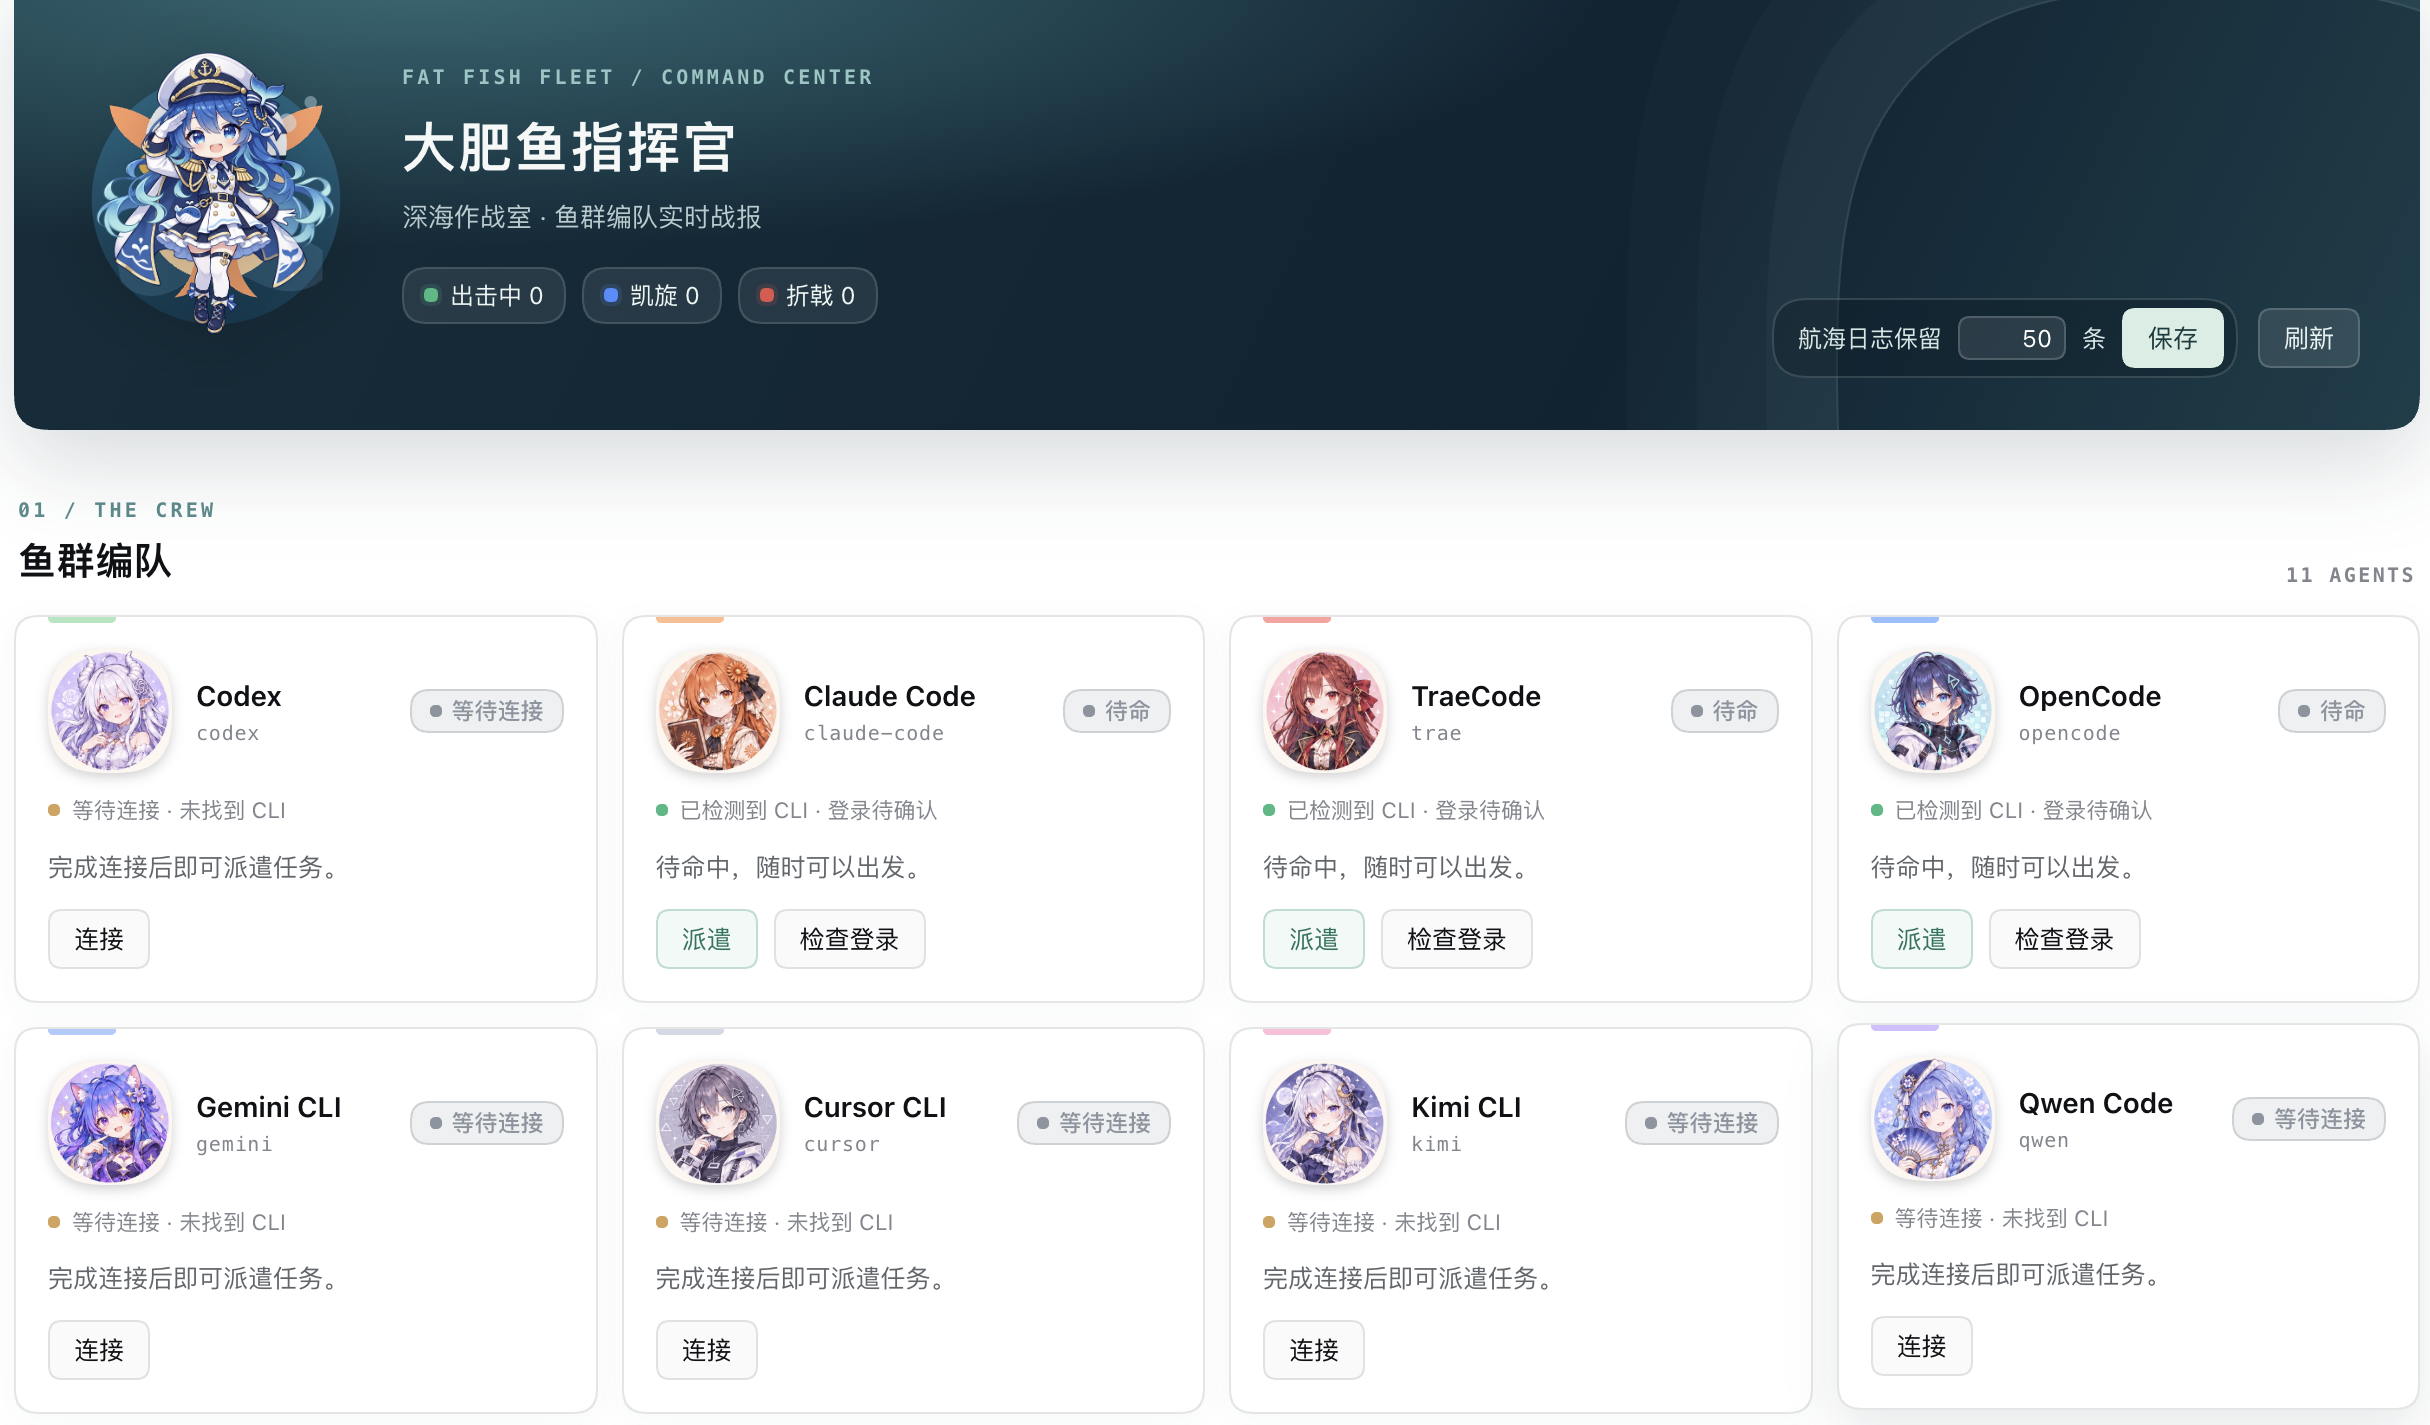
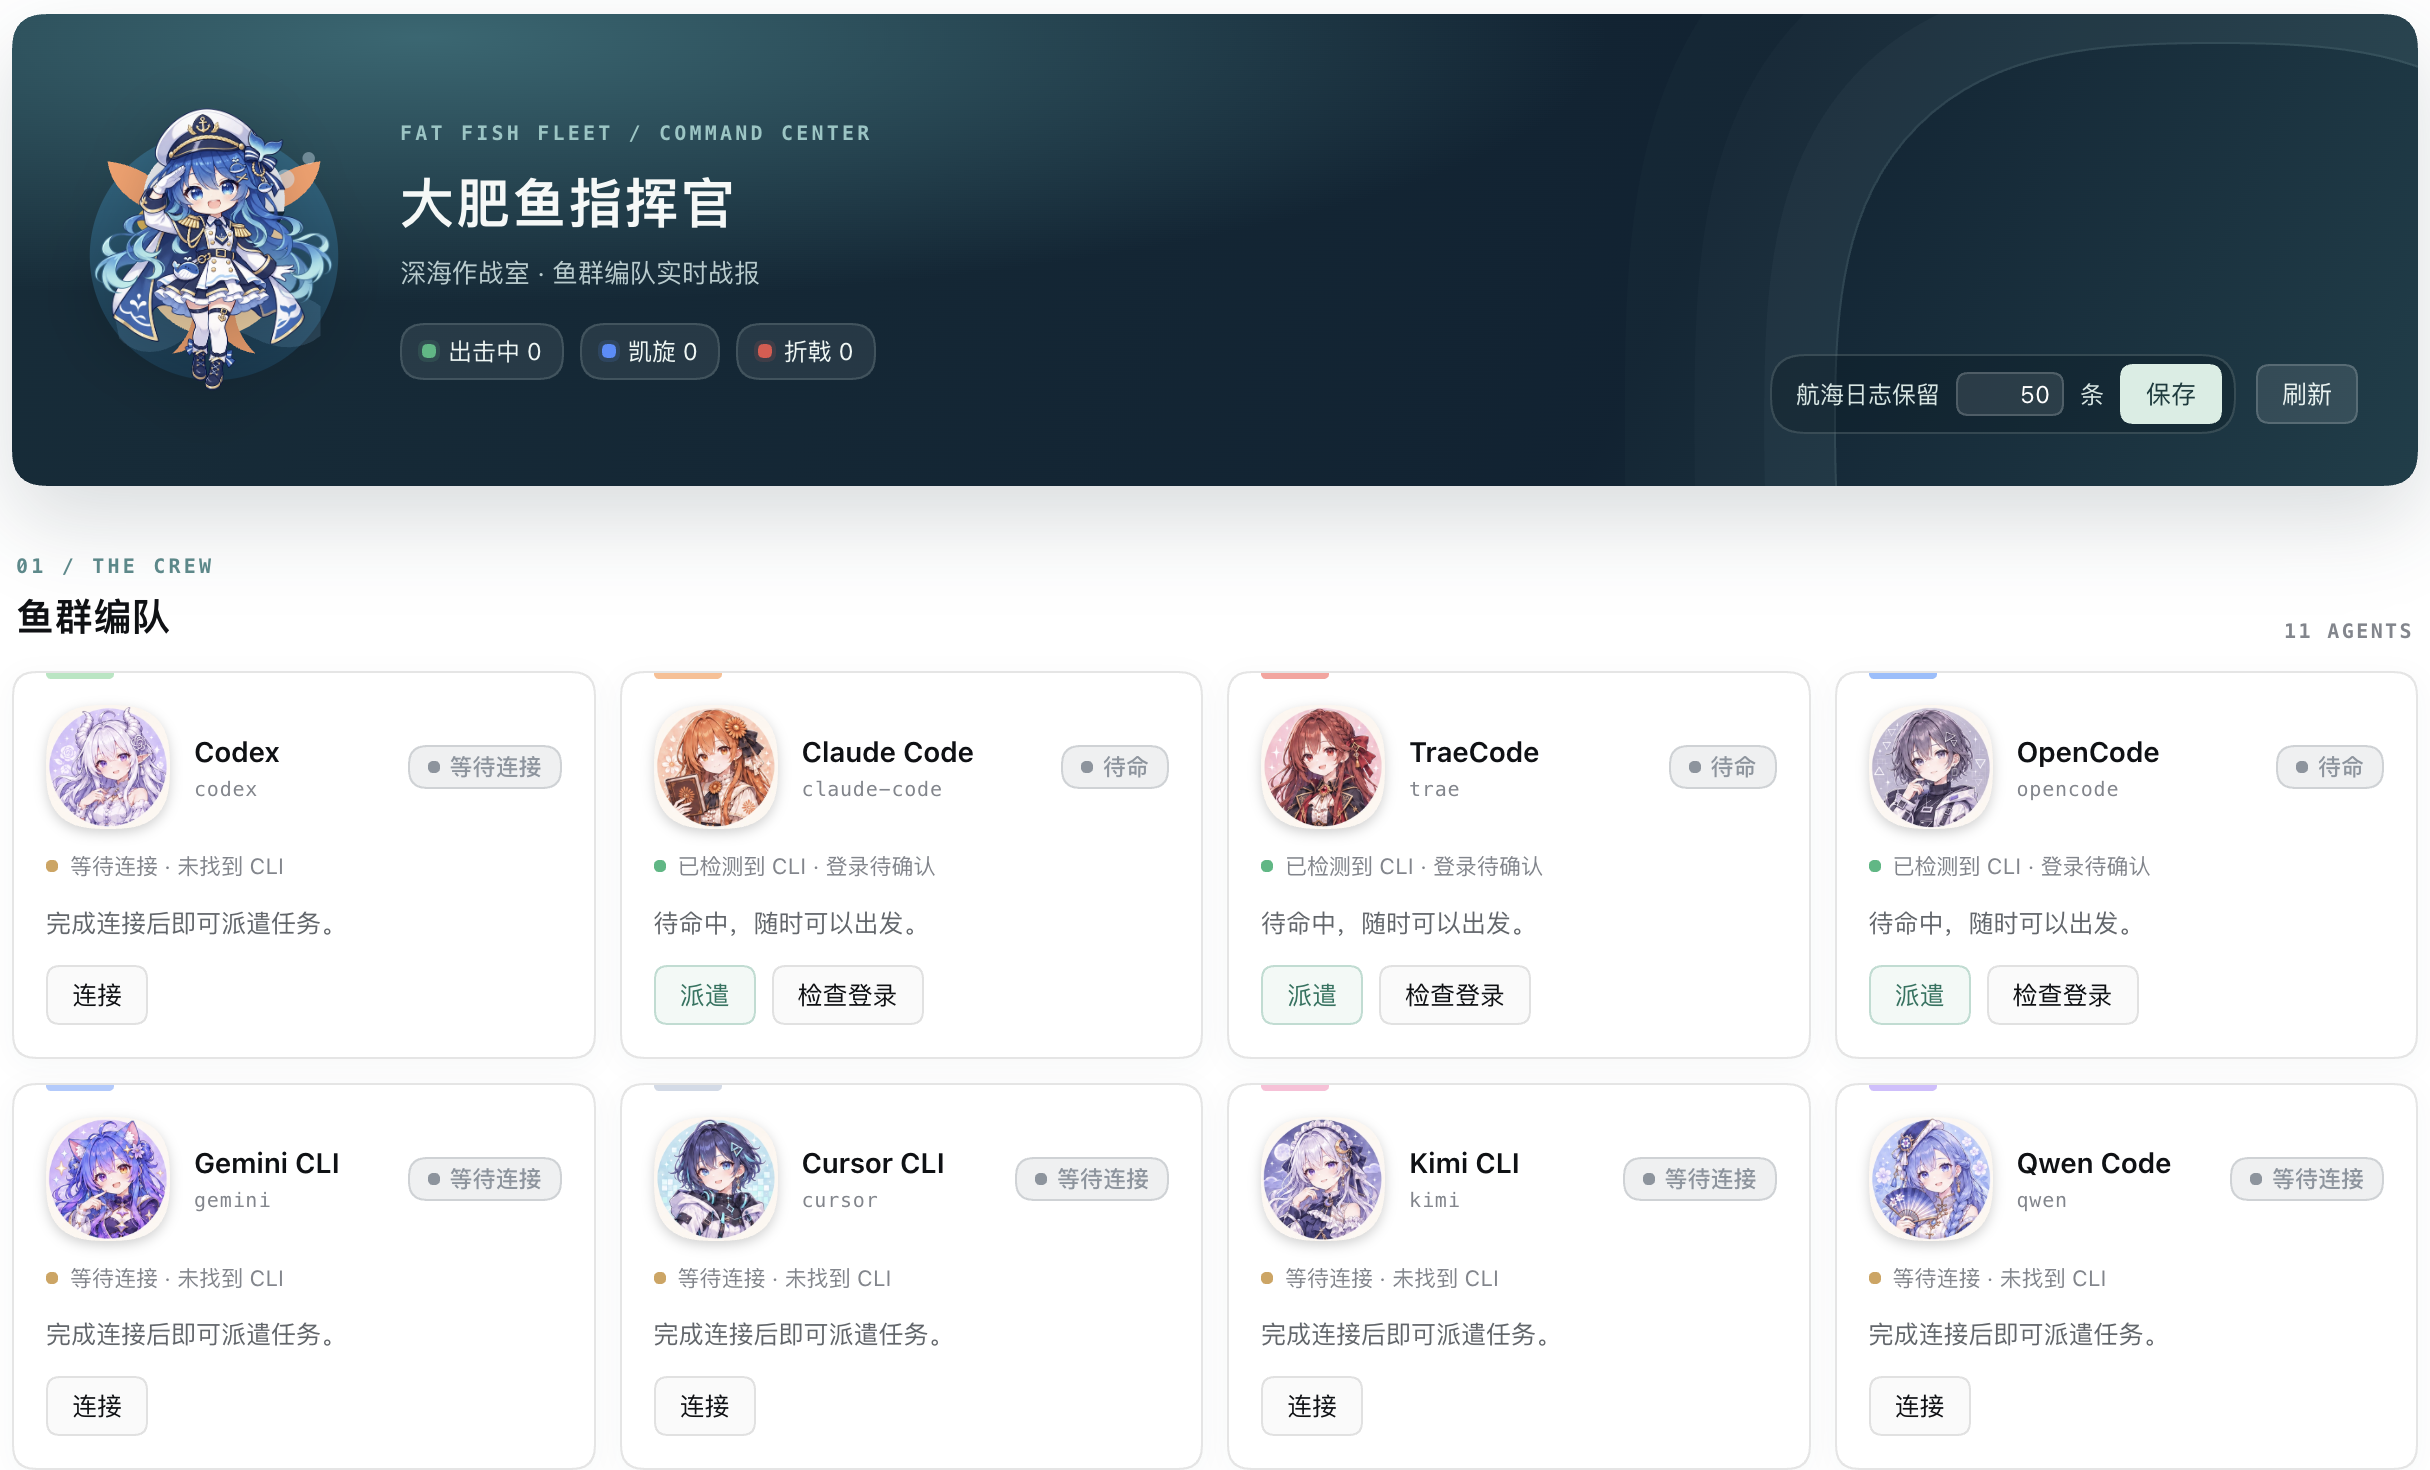
fix: correct crew portraits and improve install guide

diff --git a/client.js b/client.js
@@ -640,7 +640,9 @@ window.__ModuleLoader__.load({
     function CrewAvatar({ crew, size = 46, status = 'idle' }) {
       const gear = avatarGear(crew.gear)
       const showEyes = true
-      const index = Math.max(0, CREW.findIndex((item) => item.id === crew.id))
+      // The OpenCode and Cursor portraits occupy each other's atlas cells.
+      const atlasId = crew.id === 'opencode' ? 'cursor' : crew.id === 'cursor' ? 'opencode' : crew.id
+      const index = Math.max(0, CREW.findIndex((item) => item.id === atlasId))
       return h('span', { className: 'dshc-avatar', style: { width: size, height: size }, role: 'img', 'aria-label': t('avatar.alt', { name: crew.name }) },
         h('svg', {
           viewBox: '0 0 64 64', width: size, height: size, 'aria-hidden': 'true',

diff --git a/README.md b/README.md
@@ -21,6 +21,20 @@ A small fleet for big tasks.
 
 ---
 
+## 🚀 Install the Commander in DSH
+
+1. Open **Plugins** in the left sidebar, then select **Installed**.
+2. Click **Add plugin** and enter this GitHub repository address:
+
+   ```text
+   https://github.com/MJorgin/dsh-agent-conductor
+   ```
+
+3. Click **Install**, then follow DSH's prompts. Restart DSH if it asks you to.
+4. Open **Commander** in the left sidebar. Install and sign in to the CLI you want to use separately.
+
+> Use the GitHub address above for the current Commander panel. The npm package may lag behind the repository and may not yet contain the panel.
+
 ## 🐟 Meet your command room
 
 ![Big Fat Fish Commander panel showing the captain and agent fleet in DeepSeek Harness](docs/images/commander-panel.png)
@@ -208,10 +222,10 @@ Notes:
 This repo is also a dsh bundle — a host half (`dsh.bundle`) plus a browser half (`dsh.client.platform = "web"`). One command installs both into a profile:
 
 ```sh
-dsh plugin --profile desktop add dsh-agent-conductor
+dsh plugin --profile desktop add github:MJorgin/dsh-agent-conductor
 ```
 
-Or straight from GitHub: `dsh plugin --profile desktop add github:MJorgin/dsh-agent-conductor`. Use your own profile name if it isn't `desktop`; restart DSH after installing a new bundle (a replaced package also needs a restart before its new client module is served).
+Use your own profile name if it isn't `desktop`. Follow DSH's restart prompt if one is shown; a replaced package may need a restart before its new client module is served. See [Install the Commander in DSH](#-install-the-commander-in-dsh) for the graphical route.
 
 - The tool, the panel and the skill share the same CLI registry (`index.js` ⇄ `conductor-dynamic.js` ⇄ `dispatch.py` — keep the three in sync when adding CLIs);
 - The browser half is a hand-written client module (`client.js`): it registers the sidebar row and the `main` page through `ctx.slots`, and talks only to the same-origin `/conductor` route;
